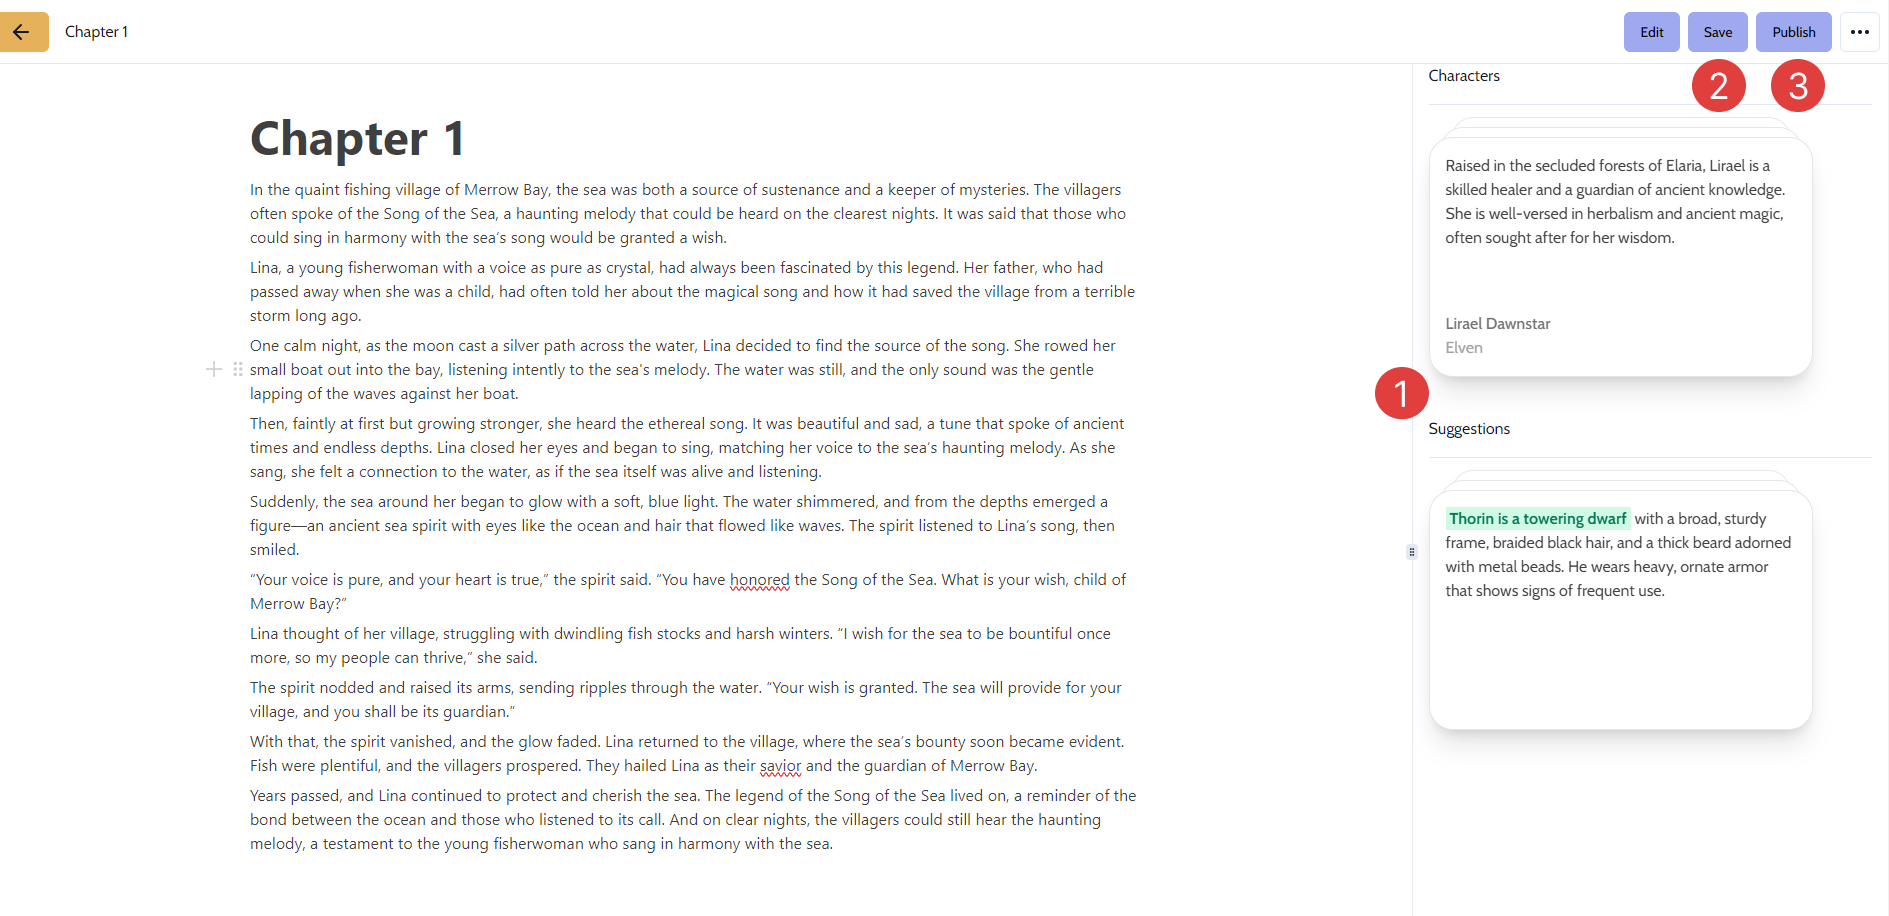
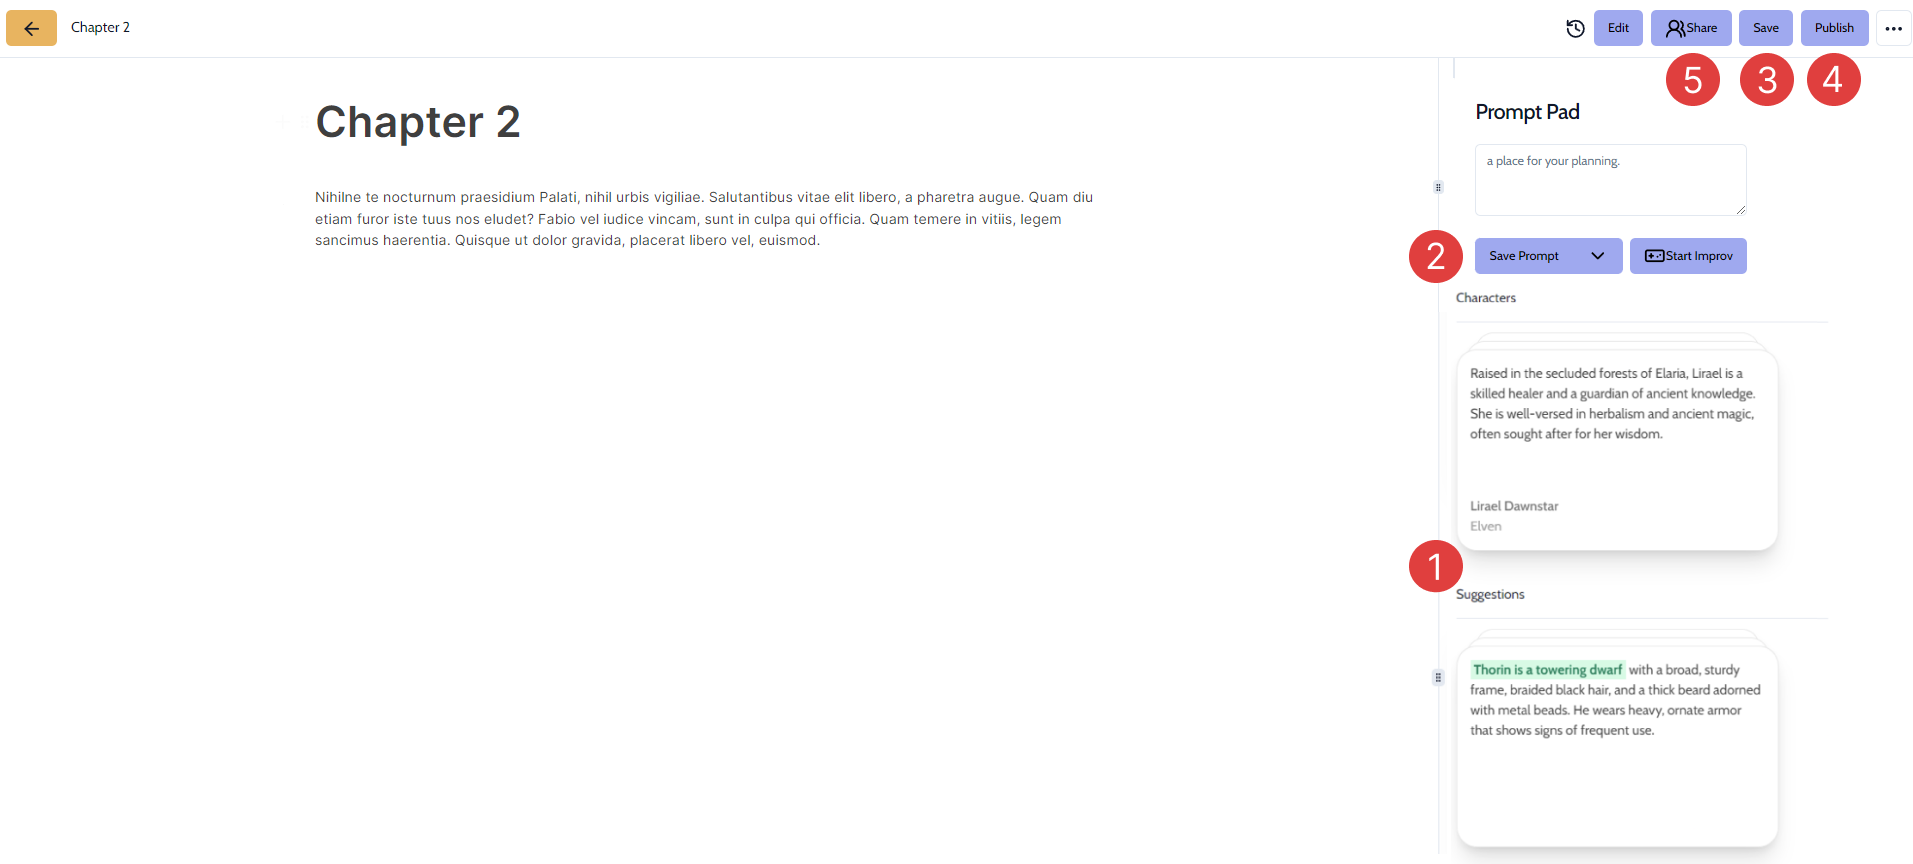
fix(docs): update user manual chapter view

diff --git a/apps/writeme-docs/docs/User.md b/apps/writeme-docs/docs/User.md
@@ -104,9 +104,11 @@ Once you have been logged in, you will be taken to the **"My Stories"** page. Th
 
 ![Chapter](./images/ChapterView.png)
 
-1. This panel will show you a variety of ideas for various charactors and also suggestion to aid you when you are writing a story.
-2. You can click on the **"Save"** button which will save your story and only you will be able to view it.
-3. Once you are confident, you can click on the **"Publish"** button to publish your story for others to view.
+1. This panel will show you a variety of ideas for various characters and also suggestion to aid you when you are writing a story.
+2. This is where you can use the **Prompt Pad**, this is used when you have a writers block and would like to get interesting questions to stir your creative juices. You can either click on **Start Improv**, to get random questions, or click on **Save Prompt** to save your answers to refer back to.
+3. You can click on the **"Save"** button which will save your story and only you will be able to view it.
+4. Once you are confident, you can click on the **"Publish"** button to publish your story for others to view.
+5. You can click on **Share** button to start a live session where other users may join via the link shared.
 
 #### Create a new chapter
 
